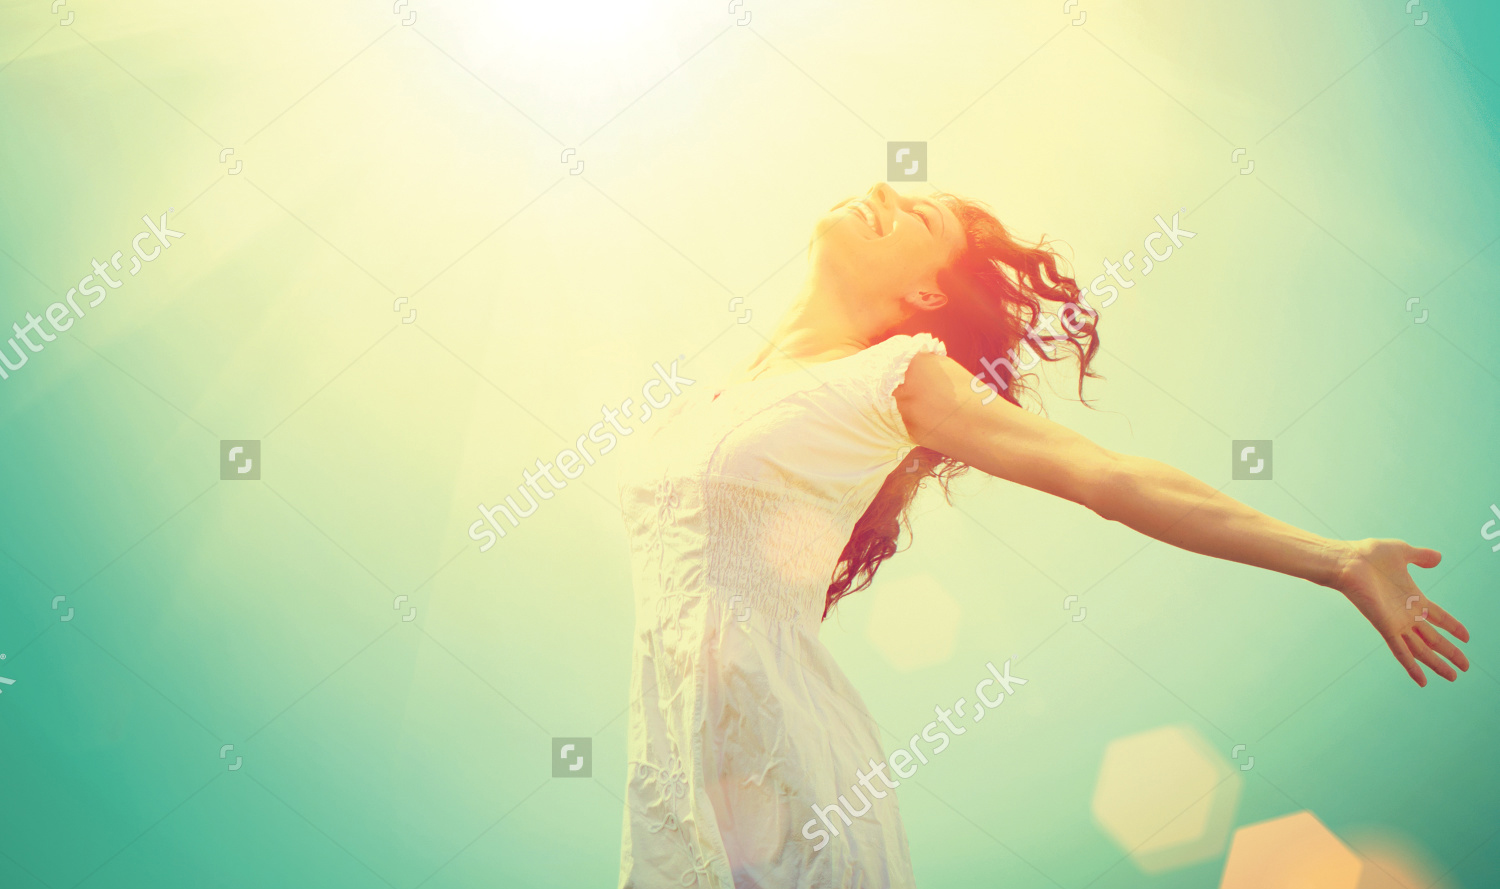
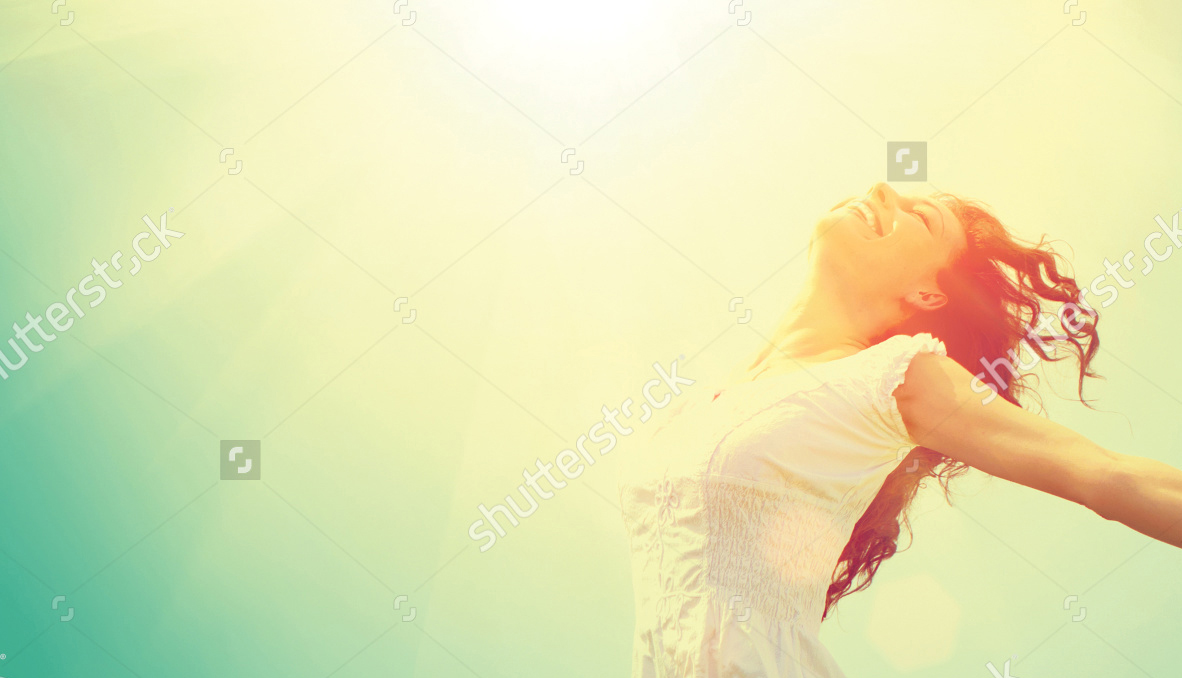
Script para calcular parallax

diff --git a/assets/scripts/scripts.js b/assets/scripts/scripts.js
@@ -23,13 +23,33 @@ textRotator();
 
 // PARALLAX
 $(function(){
+	var element = $(".parallax");
 	$("body").scroll(function(){
-		var scrollPos = $("main").offset().top,
-				headerH = $("header").innerHeight(),
-				newPos = Math.abs(scrollPos-headerH);
-		$("#cover").css("background-position", "0px " + -newPos/2 +"px")
+		if(element.length > 0){
+			calculatePosition(element);
+		}
 	});
-})
+	if(element.length > 0){
+		calculatePosition(element);
+	}
+});
+function calculatePosition(element) {
+	element.each(function(i,e){
+		var wHeight = window.innerHeight,
+				offset = $(e).offset().top,
+				scrollPos = $("body").scrollTop(),
+				height = $(e).outerHeight(),
+				bottom = (height+offset) - wHeight;
+		//if is visible
+		if (offset <= wHeight && offset >= -height) {
+			bkgPosition($(e), bottom);
+		}
+	});
+}
+function bkgPosition(el, pos) {
+	var x = el.data("x");
+	el.css("background-position", x+" " + pos/2 +"px");
+}
 
 //LIVERELOAD KEEP SCROLL
 $(function(){

diff --git a/index.html b/index.html
@@ -1,7 +1,7 @@
 ---
 layout: default
 ---
-<section id="cover">
+<section id="cover" class="parallax" data-x="right">
 	<h1 class="title">Atención psicológica a la&nbsp;<span id="dinamic-end"><b class="visible">infancia</b><b class="hidden">adolescencia</b><b class="hidden">pareja</b><b class="hidden">familia</b></span></h1>
 	<h2 class="subtitle">Un nuevo enfoque psicoterapéutico y educativo!</h2>
 </section>
@@ -28,7 +28,7 @@ layout: default
 			</p>
 		</div>
 	</div>
-	<div class="content">
+	<div class="content parallax" data-x="center">
 		<div class="wrapper">
 			<h2 class="title">COOPERAMOS PARA MEJORAR</h2>
 			<p>

diff --git a/_sass/index.scss b/_sass/index.scss
@@ -98,6 +98,7 @@
 			width: 100%;
 			background: url("../images/03.jpg") no-repeat center;
 			background-size: cover;
+			background-attachment: fixed;
 			position: relative;
 			&:before {
 				@include transparent-layer($black3, .4);
